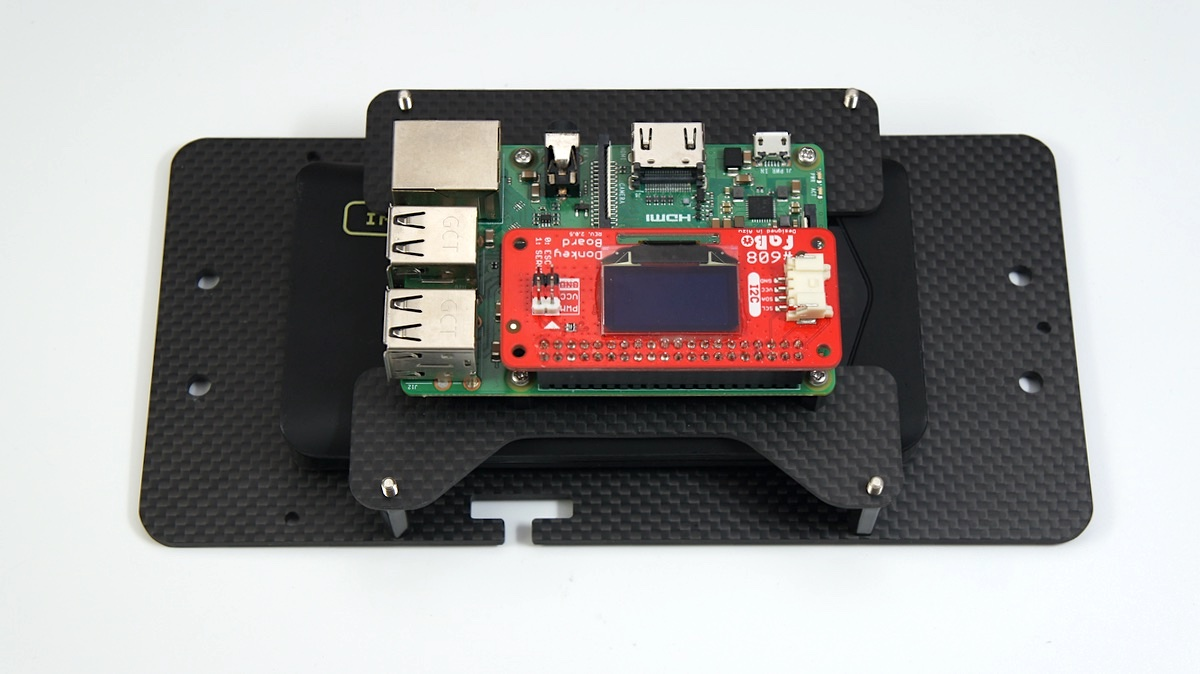
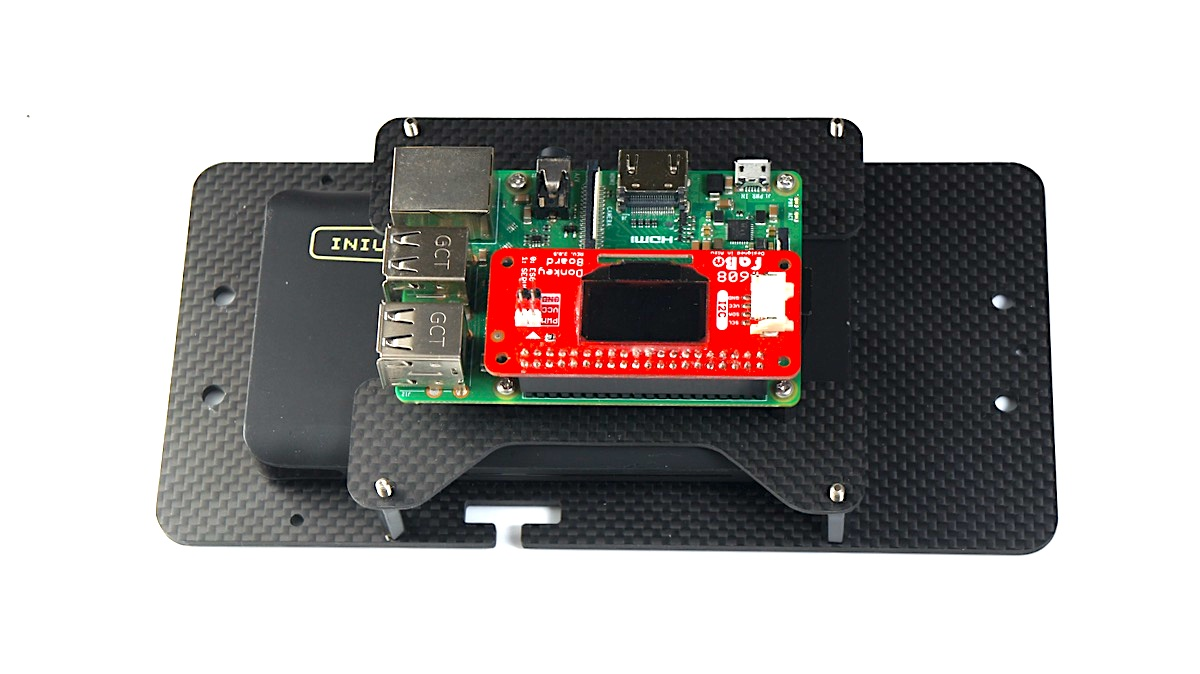
Deployed 7582424 with MkDocs version: 1.1.2

diff --git a/2.DonkeyCar3の個別設定/01.donkey_install/index.html b/2.DonkeyCar3の個別設定/01.donkey_install/index.html
@@ -1435,13 +1435,13 @@
 <h2 id="hostname">Hostnameの修正</h2>
 <p>Defaultでは、Macユーザは <code>ssh pi@raspberrypi.local</code> でRaspberryPiに接続できます。全員同じ名前になると、区別がつかないので、<code>hostname</code>, <code>hosts</code> の 2箇所のhost名を書き直し、独自の名前で呼び出せるようにしておきます。今回は、<code>raspberrypi</code>から<code>donkeypi</code>に書き直します。</p>
 <h3 id="hostname_1">hostnameの修正</h3>
-<div class=md-fenced-code-tabs id=tab-tab-group-2><input name=tab-group-2 type=radio id=tab-group-2-0_zl8y575sikfnkgk checked=checked class=code-tab data-lang aria-controls=tab-group-2-0_zl8y575sikfnkgk-panel role=tab><label for=tab-group-2-0_zl8y575sikfnkgk class=code-tab-label data-lang id=tab-group-2-0_zl8y575sikfnkgk-label></label><div class=code-tabpanel role=tabpanel data-lang id=tab-group-2-0_zl8y575sikfnkgk-panel aria-labelledby=tab-group-2-0_zl8y575sikfnkgk-label><table class=codehilitetable><tr><td class=linenos><div class=linenodiv><pre>1</pre></div></td><td class=code><div class=codehilite><pre><span></span><code><span class=err>sudo vi /etc/hostname</span>
-</code></pre></div></td></tr></table></div><input name=tab-group-2 type=radio id=tab-group-2-1_1xcwsrwefgh4bea class=code-tab data-lang aria-controls=tab-group-2-1_1xcwsrwefgh4bea-panel role=tab><label for=tab-group-2-1_1xcwsrwefgh4bea class=code-tab-label data-lang id=tab-group-2-1_1xcwsrwefgh4bea-label></label><div class=code-tabpanel role=tabpanel data-lang id=tab-group-2-1_1xcwsrwefgh4bea-panel aria-labelledby=tab-group-2-1_1xcwsrwefgh4bea-label><table class=codehilitetable><tr><td class=linenos><div class=linenodiv><pre>1</pre></div></td><td class=code><div class=codehilite><pre><span></span><code><span class=err>donkeypi</span>
+<div class=md-fenced-code-tabs id=tab-tab-group-2><input name=tab-group-2 type=radio id=tab-group-2-0_v9arizf7rhvctrj checked=checked class=code-tab data-lang aria-controls=tab-group-2-0_v9arizf7rhvctrj-panel role=tab><label for=tab-group-2-0_v9arizf7rhvctrj class=code-tab-label data-lang id=tab-group-2-0_v9arizf7rhvctrj-label></label><div class=code-tabpanel role=tabpanel data-lang id=tab-group-2-0_v9arizf7rhvctrj-panel aria-labelledby=tab-group-2-0_v9arizf7rhvctrj-label><table class=codehilitetable><tr><td class=linenos><div class=linenodiv><pre>1</pre></div></td><td class=code><div class=codehilite><pre><span></span><code><span class=err>sudo vi /etc/hostname</span>
+</code></pre></div></td></tr></table></div><input name=tab-group-2 type=radio id=tab-group-2-1_k48snot1n8vkk6c class=code-tab data-lang aria-controls=tab-group-2-1_k48snot1n8vkk6c-panel role=tab><label for=tab-group-2-1_k48snot1n8vkk6c class=code-tab-label data-lang id=tab-group-2-1_k48snot1n8vkk6c-label></label><div class=code-tabpanel role=tabpanel data-lang id=tab-group-2-1_k48snot1n8vkk6c-panel aria-labelledby=tab-group-2-1_k48snot1n8vkk6c-label><table class=codehilitetable><tr><td class=linenos><div class=linenodiv><pre>1</pre></div></td><td class=code><div class=codehilite><pre><span></span><code><span class=err>donkeypi</span>
 </code></pre></div></td></tr></table></div></div>
 
 <h3 id="hosts">hostsの修正</h3>
-<div class=md-fenced-code-tabs id=tab-tab-group-3><input name=tab-group-3 type=radio id=tab-group-3-0_kusewqneaowqwt2 checked=checked class=code-tab data-lang aria-controls=tab-group-3-0_kusewqneaowqwt2-panel role=tab><label for=tab-group-3-0_kusewqneaowqwt2 class=code-tab-label data-lang id=tab-group-3-0_kusewqneaowqwt2-label></label><div class=code-tabpanel role=tabpanel data-lang id=tab-group-3-0_kusewqneaowqwt2-panel aria-labelledby=tab-group-3-0_kusewqneaowqwt2-label><table class=codehilitetable><tr><td class=linenos><div class=linenodiv><pre>1</pre></div></td><td class=code><div class=codehilite><pre><span></span><code><span class=err>sudo vi /etc/hosts</span>
-</code></pre></div></td></tr></table></div><input name=tab-group-3 type=radio id=tab-group-3-1_uugzymkwkrl7sik class=code-tab data-lang aria-controls=tab-group-3-1_uugzymkwkrl7sik-panel role=tab><label for=tab-group-3-1_uugzymkwkrl7sik class=code-tab-label data-lang id=tab-group-3-1_uugzymkwkrl7sik-label></label><div class=code-tabpanel role=tabpanel data-lang id=tab-group-3-1_uugzymkwkrl7sik-panel aria-labelledby=tab-group-3-1_uugzymkwkrl7sik-label><table class=codehilitetable><tr><td class=linenos><div class=linenodiv><pre>1
+<div class=md-fenced-code-tabs id=tab-tab-group-3><input name=tab-group-3 type=radio id=tab-group-3-0_wjj5dk2viaxqi23 checked=checked class=code-tab data-lang aria-controls=tab-group-3-0_wjj5dk2viaxqi23-panel role=tab><label for=tab-group-3-0_wjj5dk2viaxqi23 class=code-tab-label data-lang id=tab-group-3-0_wjj5dk2viaxqi23-label></label><div class=code-tabpanel role=tabpanel data-lang id=tab-group-3-0_wjj5dk2viaxqi23-panel aria-labelledby=tab-group-3-0_wjj5dk2viaxqi23-label><table class=codehilitetable><tr><td class=linenos><div class=linenodiv><pre>1</pre></div></td><td class=code><div class=codehilite><pre><span></span><code><span class=err>sudo vi /etc/hosts</span>
+</code></pre></div></td></tr></table></div><input name=tab-group-3 type=radio id=tab-group-3-1_0mhiz9d40uqkybs class=code-tab data-lang aria-controls=tab-group-3-1_0mhiz9d40uqkybs-panel role=tab><label for=tab-group-3-1_0mhiz9d40uqkybs class=code-tab-label data-lang id=tab-group-3-1_0mhiz9d40uqkybs-label></label><div class=code-tabpanel role=tabpanel data-lang id=tab-group-3-1_0mhiz9d40uqkybs-panel aria-labelledby=tab-group-3-1_0mhiz9d40uqkybs-label><table class=codehilitetable><tr><td class=linenos><div class=linenodiv><pre>1
 2
 3
 4

diff --git a/9.FaBoCar/01.pwm/index.html b/9.FaBoCar/01.pwm/index.html
@@ -1128,7 +1128,7 @@
                 
                 <h1 id="servo">Servoの制御</h1>
 <h2 id="servo_1">Servoの制御</h2>
-<div class=md-fenced-code-tabs id=tab-tab-group-0><input name=tab-group-0 type=radio id=tab-group-0-0_1de3sw59bryir82 checked=checked class=code-tab data-lang aria-controls=tab-group-0-0_1de3sw59bryir82-panel role=tab><label for=tab-group-0-0_1de3sw59bryir82 class=code-tab-label data-lang id=tab-group-0-0_1de3sw59bryir82-label></label><div class=code-tabpanel role=tabpanel data-lang id=tab-group-0-0_1de3sw59bryir82-panel aria-labelledby=tab-group-0-0_1de3sw59bryir82-label><table class=codehilitetable><tr><td class=linenos><div class=linenodiv><pre>1
+<div class=md-fenced-code-tabs id=tab-tab-group-0><input name=tab-group-0 type=radio id=tab-group-0-0_li3fd4h1ts0op7n checked=checked class=code-tab data-lang aria-controls=tab-group-0-0_li3fd4h1ts0op7n-panel role=tab><label for=tab-group-0-0_li3fd4h1ts0op7n class=code-tab-label data-lang id=tab-group-0-0_li3fd4h1ts0op7n-label></label><div class=code-tabpanel role=tabpanel data-lang id=tab-group-0-0_li3fd4h1ts0op7n-panel aria-labelledby=tab-group-0-0_li3fd4h1ts0op7n-label><table class=codehilitetable><tr><td class=linenos><div class=linenodiv><pre>1
 2</pre></div></td><td class=code><div class=codehilite><pre><span></span><code><span class=err>git clone https://github.com/FaBoPlatform/FaBoPWM-PCA9685-Python</span>
 <span class=err>pip install FaBoPWM-PCA9685-Python/</span>
 </code></pre></div></td></tr></table></div><input name=tab-group-0 type=radio id=tab-group-0-1_python class=code-tab data-lang=python aria-controls=tab-group-0-1_python-panel role=tab><label for=tab-group-0-1_python class=code-tab-label data-lang=python id=tab-group-0-1_python-label>Python</label><div class=code-tabpanel role=tabpanel data-lang=python id=tab-group-0-1_python-panel aria-labelledby=tab-group-0-1_python-label><table class=codehilitetable><tr><td class=linenos><div class=linenodiv><pre> 1

diff --git a/1.DonkeyCar3の構築/00.DCK-R2/index.html b/1.DonkeyCar3の構築/00.DCK-R2/index.html
@@ -1683,7 +1683,7 @@
 <p><img alt="" src="../img/DCK-R2/DCK2_LE4_8.jpg" /></p>
 <p>両面テープの片側の剥離紙をとります。</p>
 <p><img alt="" src="../img/DCK-R2/DCK2_LE4_9.jpg" /></p>
-<p>モバイルバッテリーをベースプレートに貼ります。プレートの先端からモバイルバッテリーまで約20~25mmぐらいのところにはります。モバイルバッテリーの向きは、USBポートがある方が後ろとなります。</p>
+<p>モバイルバッテリーをベースプレートに貼ります。下の写真のようにスペーサー右外側とモバイルバッテリーが一直線に並ぶようにして、モバイルバッテリーの向きは、USBポートがある方を後ろ方向へ設置します。</p>
 <p><img alt="" src="../img/DCK-R2/DCK2_LE4_10.jpg" /></p>
 <p>モバイルバッテリーの上に基板取り付けプレートを載せ取り付けます。</p>
 <p><img alt="" src="../img/DCK-R2/DCK2_LE4_11.jpg" /></p>
@@ -1826,7 +1826,7 @@
 <p><img alt="" src="../img/DCK-R2/DCK2_LE11_1.jpg" /></p>
 <div class="admonition info">
 <p class="admonition-title">ゲームパッド（F710）の入力モード</p>
-<p>XInputとDirectInputがあり、ドンキーカーではXモードでの入力モードとなります。</p>
+<p>入力規格はXInputとDirectInputがあり、ドンキーカーでXInputの入力モードとなります。</p>
 </div>
 <div class="admonition warning">
 <p class="admonition-title">制御不能<p>電波干渉、電池切れや操作距離は最大１０m程度です。制御不能に、ご注意ください。</p>
